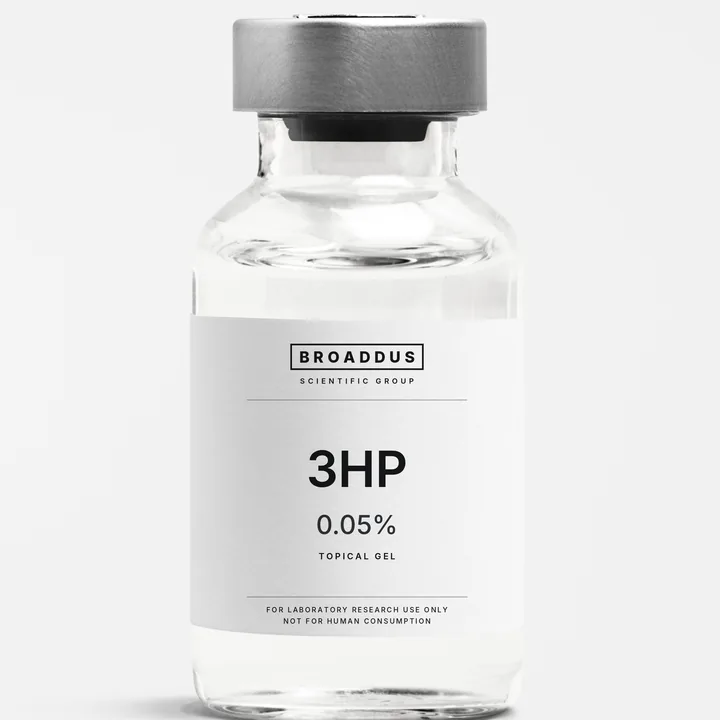
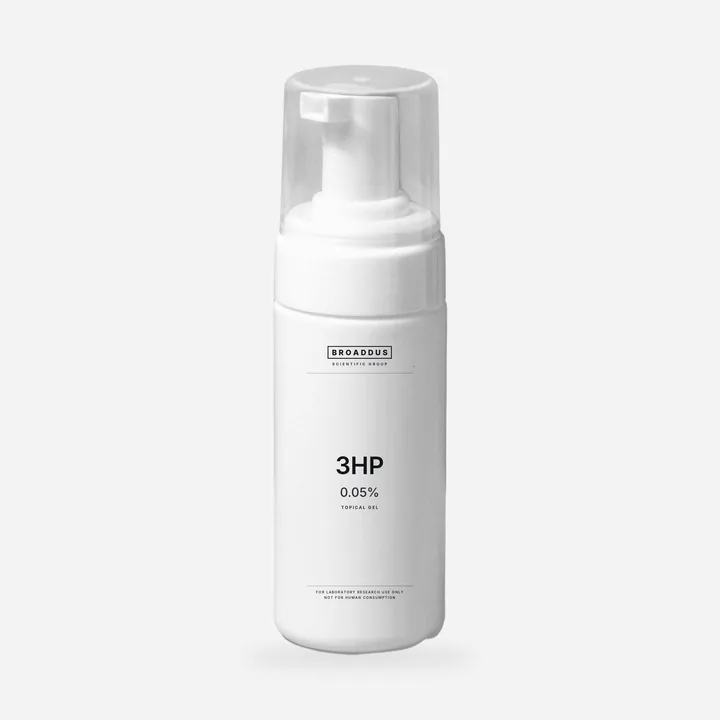
Show the topical gels in a clean labeled pump bottle
3HP and PP30 now use an airless pump bottle cut out of the supplied
photo (flower, stone and tube removed), with its warm cast neutralised
to clean white, set on the shared studio grey with a printed label.

Claude-Session: https://claude.ai/code/session_01RuYHhQEtezFUCmyw1eUi66

diff --git a/tools/vial-labels/make_vials.py b/tools/vial-labels/make_vials.py
@@ -164,19 +164,59 @@ def render_spray(name, strength, form, path):
     canvas.paste(region, (round(side / 2 - cx), round(side * 0.5 - (605 - 60) * k)))
     canvas.resize((720, 720), Image.LANCZOS).save(path, 'WEBP', quality=82, method=6)
 
+GELPATH = os.path.join(os.path.dirname(photo), 'gel_src.png')
+GEL = None
+if os.path.exists(GELPATH):
+    # The source photo also holds a flower, a stone and a tube; keep only the pump bottle,
+    # strip the warm colour cast and lift it to a clean neutral white.
+    import numpy as np
+    from scipy import ndimage
+    _src = Image.open(GELPATH).convert('RGBA')
+    _a = np.asarray(_src).astype(float)
+    _lab, _ = ndimage.label(_a[..., 3] > 40)
+    _keep = _lab == _lab[1100, 890]                          # the blob under the bottle body
+    _y = 0.2126 * _a[..., 0] + 0.7152 * _a[..., 1] + 0.0722 * _a[..., 2]
+    _lo, _hi = np.percentile(_y[_keep], 2), np.percentile(_y[_keep], 97)
+    _n = np.clip((_y - _lo) / (_hi - _lo), 0, 1) ** 0.85      # levels + gentle gamma
+    _v = 150 + _n * 102                                         # shading lives between 150 and 252
+    _rgb = np.stack([_v, _v, _v * 1.004], -1)                   # neutral, a hair cool
+    _alpha = np.where(_keep, _a[..., 3], 0)
+    GEL = Image.fromarray(np.dstack([_rgb, _alpha]).clip(0, 255).astype('uint8'), 'RGBA').crop((741, 448, 1046, 1476))
+
+def render_gel(name, strength, form, path):
+    """Airless pump bottle on studio grey with a printed label."""
+    from PIL import ImageFilter
+    k = 3
+    bot = GEL.resize((GEL.width * k, GEL.height * k), Image.LANCZOS)
+    lx0, ly0, lx1, ly1 = 12 * k, 470 * k, 292 * k, 940 * k   # straight body below the collar (crop coords)
+    lw, lh = lx1 - lx0, ly1 - ly0
+    art = label(name, strength, form, H=round(W * lh / lw)).resize((lw, lh), Image.LANCZOS)
+    body = bot.crop((lx0, ly0, lx1, ly1))
+    rgb = ImageChops.multiply(body.convert('RGB'), art)
+    body.paste(rgb, (0, 0), body.getchannel('A'))
+    bot.paste(body, (lx0, ly0))
+    side = round(bot.height / 0.82)
+    canvas = Image.new('RGB', (side, side), (243, 243, 243))
+    sh = Image.new('L', (side, side), 0)
+    bx, by = round(side / 2 - bot.width / 2), round(side * 0.91 - bot.height)
+    ImageDraw.Draw(sh).ellipse((bx - bot.width * 0.15, by + bot.height - 40, bx + bot.width * 1.15, by + bot.height + 60), fill=120)
+    canvas.paste(Image.new('RGB', (side, side), (200, 200, 202)), (0, 0), sh.filter(ImageFilter.GaussianBlur(40)))
+    canvas.paste(bot, (bx, by), bot)
+    canvas.resize((720, 720), Image.LANCZOS).save(path, 'WEBP', quality=82, method=6)
+
 os.makedirs(outdir, exist_ok=True)
 jobs = []
 for c in cat['chemicals']:
     form = {'Spray Solution': 'Spray solution', 'Gel Dispenser': 'Topical gel', 'Aliquot Solution': 'Aliquot solution'}.get(c['form'], c['form'])
     nm = re.sub(r'\s*\(.*?\)\s*', ' ', c['name']).strip() if len(c['name']) > 22 else c['name']
-    jobs.append((c['id'], nm, c['size'], form, 'drop' if c['form'] == 'Solution' else 'jar' if c['form'] in ('Powder', 'Capsules') else 'spray' if c['form'] == 'Spray Solution' else 'vial'))
+    jobs.append((c['id'], nm, c['size'], form, 'drop' if c['form'] == 'Solution' else 'jar' if c['form'] in ('Powder', 'Capsules') else 'spray' if c['form'] == 'Spray Solution' else 'gel' if c['form'] == 'Gel Dispenser' else 'vial'))
 for p in cat['peptides']:
     for z in p['sizes']:
         form = 'Sterile solution' if p['id'] == 'bac-water' else 'Kit' if p['cat'] == 'supplies' else 'Solution' if p['form'] == 'Solution' else 'Lyophilized powder'
         jobs.append((p['id'] + '--' + slug(z['label']), p['name'], z['label'], form, 'drop' if p['form'] == 'Solution' else 'vial'))
 if only: jobs = [j for j in jobs if re.search(only, j[0])]
 for fid, nm, st, fm, kind in jobs:
-    fn = render_dropper if (kind == 'drop' and DROPPER) else render_jar if (kind == 'jar' and JAR) else render_spray if (kind == 'spray' and SPRAY) else render
+    fn = render_dropper if (kind == 'drop' and DROPPER) else render_jar if (kind == 'jar' and JAR) else render_spray if (kind == 'spray' and SPRAY) else render_gel if (kind == 'gel' and GEL is not None) else render
     fn(nm, st, fm, os.path.join(outdir, fid + '.webp'))
-print('droppers', sum(1 for j in jobs if j[4] == 'drop' and DROPPER), '| jars', sum(1 for j in jobs if j[4] == 'jar' and JAR), '| sprays', sum(1 for j in jobs if j[4] == 'spray' and SPRAY))
+print('droppers', sum(1 for j in jobs if j[4] == 'drop' and DROPPER), '| jars', sum(1 for j in jobs if j[4] == 'jar' and JAR), '| sprays', sum(1 for j in jobs if j[4] == 'spray' and SPRAY), '| gels', sum(1 for j in jobs if j[4] == 'gel' and GEL is not None))
 print('rendered', len(jobs))

diff --git a/tools/vial-labels/README.md b/tools/vial-labels/README.md
@@ -1,4 +1,4 @@
-# Product labels for the shop (vial, dropper, jar, nasal spray)
+# Product labels for the shop (vial, dropper, jar, nasal spray, gel pump)
 
 Every product photo in `shop/assets/img/vials/` is one of two bottles with the product's
 name, strength and form printed onto its label:
@@ -7,7 +7,10 @@ name, strength and form printed onto its label:
 - **Powders and capsules** (chemicals): the black screw-top jar, `jar.jpg`, with a white wrap label.
 - **Intranasal sprays** (form "Spray Solution"): the white nasal-spray bottle, `spray.jpg`
   (the unlabeled bottle on the right of stock image 14598), with a printed wrap label.
-- **Everything else** (gels, aliquots, lyophilized peptides): the glass vial photo.
+- **Topical gels** (form "Gel Dispenser"): the airless pump bottle cut out of `gel_src.png`
+  (transparent PNG; the flower, stone and tube in that photo are dropped automatically), neutralised
+  to a clean white and placed on studio grey. Needs numpy and scipy.
+- **Everything else** (the aliquot and lyophilized peptides): the glass vial photo.
 
 Photo: "Injection bottle glass vial with blank white label" by rawpixel.com on Magnific
 (free license, attribution required; the credit is in the shop footer). The original photo is
@@ -18,7 +21,7 @@ from https://www.magnific.com/free-photo/injection-bottle-glass-vial-with-blank-
 
     python3 tools/vial-labels/make_vials.py . path/to/vial.jpg shop/assets/img/vials
 
-Put `dropper.png`, `jar.jpg` and `spray.jpg` in the same folder as `vial.jpg`; without them, those products fall back to the vial.
+Put `dropper.png`, `jar.jpg`, `spray.jpg` and `gel_src.png` in the same folder as `vial.jpg`; without them, those products fall back to the vial.
 
 Add a regex as a fourth argument to render only matching files, e.g. `'^bpc-157'`.
 Needs Python 3 with Pillow, Node (to read `catalog.js`) and the Inter font.
